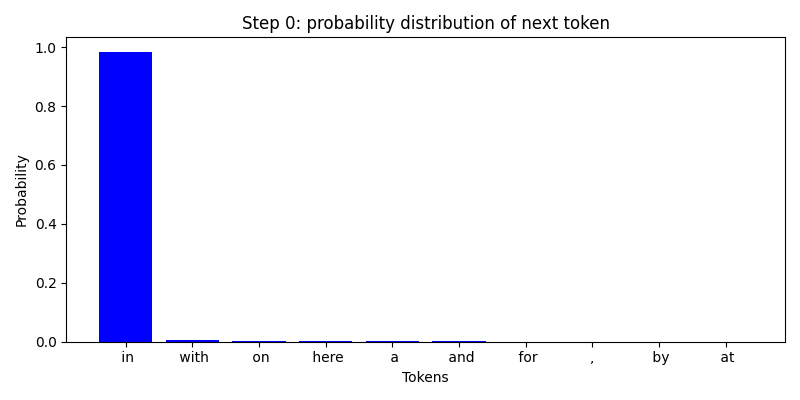
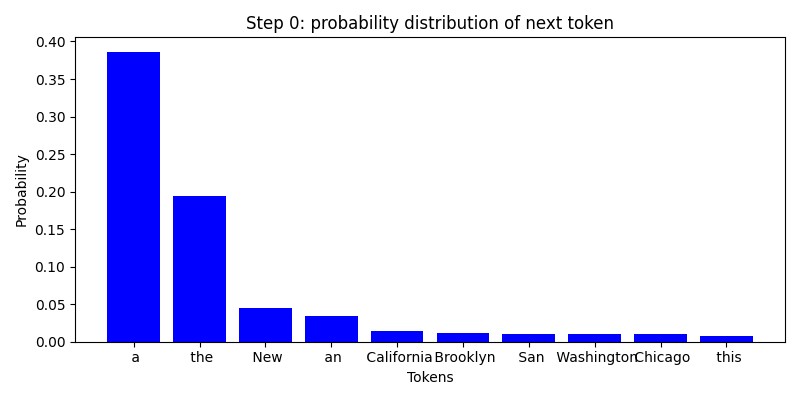
Assignment_2: Part 2

diff --git a/app/nanoGPT/eval.py b/app/nanoGPT/eval.py
@@ -1,0 +1,79 @@
+import os
+import json
+import math
+import torch
+import tiktoken
+from model import GPTConfig, GPT
+
+@torch.no_grad()
+def eval(model, enc, eval_file, device="cuda"):
+
+    with open(eval_file, "r", encoding="utf-8") as f:
+        data = json.load(f)
+
+    total_logprob = 0.0
+    total_tokens = 0
+
+    for ex in data:
+        prompt, response = ex["prompt"], ex["response"]
+
+        prompt_ids = enc.encode(prompt)
+        response_ids = enc.encode(response)
+
+        x = torch.tensor([prompt_ids], dtype=torch.long, device=device)
+        logits, _ = model(x)
+        logits = logits[:, -1, :]
+
+        logprob = 0.0
+        for token in response_ids:
+            probs = torch.softmax(logits, dim=-1)
+            prob = probs[0, token].item()
+            logprob += torch.log(torch.tensor(prob + 1e-10))
+            total_tokens += 1
+
+            x = torch.tensor([[token]], dtype=torch.long, device=device)
+            logits, _ = model(x)
+            logits = logits[:, -1, :]
+
+        total_logprob += logprob.item()
+        print(f"Prompt: {prompt}\nResponse: {response}\n"
+              f"LogProb: {logprob.item():.4f}\n")
+
+    # perplexity
+    avg_logprob = total_logprob / total_tokens
+    ppl = math.exp(-avg_logprob)
+
+    print(f"Summed log probability over dataset: {total_logprob:.4f}")
+    print(f"Perplexity over dataset: {ppl:.4f}")
+
+
+if __name__ == "__main__":
+    import argparse
+    parser = argparse.ArgumentParser(description="Evaluate GPT on prompt-response pairs")
+    parser.add_argument("out_dir", type=str, help="Directory with model checkpoint")
+    parser.add_argument("--eval_file", type=str, default="eval_data.json")
+    parser.add_argument("--init_from", type=str, default="resume")
+    parser.add_argument("--start", type=str, default="\n")
+    parser.add_argument("--num_samples", type=str, default="10")
+    parser.add_argument("--max_new_tokens", type=str, default="500")
+    parser.add_argument("--temperature", type=str, default="0.8")
+    parser.add_argument("--top_k", type=str, default="200")
+    parser.add_argument("--seed", type=str, default="1337")
+    parser.add_argument("--device", type=str, default="cuda")
+    parser.add_argument("--compile", type=str, default="False")
+    parser.add_argument("--show_probs", type=str, default="False")
+
+    args = parser.parse_args()
+
+    ckpt_path = os.path.join(args.out_dir, "ckpt.pt")
+    checkpoint = torch.load(ckpt_path, map_location=args.device)
+
+    model_args = checkpoint["model_args"]
+    model = GPT(GPTConfig(**model_args))
+    state_dict = checkpoint["model"]
+    model.load_state_dict(state_dict)
+    model.eval().to(args.device)
+
+    enc = tiktoken.get_encoding("gpt2")
+
+    eval(model, enc, args.eval_file, args.device)

diff --git a/app/nanoGPT/sample.py b/app/nanoGPT/sample.py
@@ -42,6 +42,7 @@ device = 'cuda' # examples: 'cpu', 'cuda', 'cuda:0', 'cuda:1', etc.
 dtype = 'bfloat16' if torch.cuda.is_available() and torch.cuda.is_bf16_supported() else 'float16' # 'float32' or 'bfloat16' or 'float16'
 compile = False # use PyTorch 2.0 to compile the model to be faster
 show_probs = False
+fixed_response = ''
 exec(open('configurator.py').read()) # overrides from command line or config file
 # -----------------------------------------------------------------------------
 
@@ -107,7 +108,11 @@ with torch.no_grad():
     with ctx:
         for k in range(num_samples):
             # y = model.generate(x, max_new_tokens, temperature=temperature, top_k=top_k)
-            y, topk_probs_list, topk_indices_list, selected_ids, log_prob_total = model.generate(x, max_new_tokens, temperature=temperature, top_k=top_k, fixed_response=[42, 17, 256])
+            if fixed_response:
+                response_tokens = enc.encode(fixed_response)
+            else:
+                response_tokens = None
+            y, topk_probs_list, topk_indices_list, selected_ids, log_prob_total = model.generate(x, max_new_tokens, temperature=temperature, top_k=top_k, fixed_response=response_tokens)
             print(decode(y[0].tolist()))
             print('---------------')
             print('The probability of the generated sequence of tokens:', math.exp(log_prob_total))

diff --git a/app/nanoGPT/data/part2/prepare.py b/app/nanoGPT/data/part2/prepare.py
@@ -1,0 +1,33 @@
+import os
+import requests
+import tiktoken
+import numpy as np
+
+# download the tiny shakespeare dataset
+input_file_path = os.path.join(os.path.dirname(__file__), 'input.txt')
+if not os.path.exists(input_file_path):
+    data_url = 'https://raw.githubusercontent.com/karpathy/char-rnn/master/data/tinyshakespeare/input.txt'
+    with open(input_file_path, 'w', encoding='utf-8') as f:
+        f.write(requests.get(data_url).text)
+
+with open(input_file_path, 'r', encoding='utf-8') as f:
+    data = f.read()
+n = len(data)
+train_data = data[:int(n*0.9)]
+val_data = data[int(n*0.9):]
+
+# encode with tiktoken gpt2 bpe
+enc = tiktoken.get_encoding("gpt2")
+train_ids = enc.encode_ordinary(train_data)
+val_ids = enc.encode_ordinary(val_data)
+print(f"train has {len(train_ids):,} tokens")
+print(f"val has {len(val_ids):,} tokens")
+
+# export to bin files
+train_ids = np.array(train_ids, dtype=np.uint16)
+val_ids = np.array(val_ids, dtype=np.uint16)
+train_ids.tofile(os.path.join(os.path.dirname(__file__), 'train.bin'))
+val_ids.tofile(os.path.join(os.path.dirname(__file__), 'val.bin'))
+
+# train.bin has 301,966 tokens
+# val.bin has 36,059 tokens

diff --git a/app/nanoGPT/config/finetune_part2.py b/app/nanoGPT/config/finetune_part2.py
@@ -1,0 +1,25 @@
+import time
+
+out_dir = 'out_finetune'
+eval_interval = 5
+eval_iters = 40
+wandb_log = False # feel free to turn on
+wandb_project = 'shakespeare'
+wandb_run_name = 'ft-' + str(time.time())
+
+dataset = 'part2'
+init_from = 'gpt2' # this is the largest GPT-2 model
+
+# only save checkpoints if the validation loss improves
+always_save_checkpoint = True
+
+# the number of examples per iter:
+# 1 batch_size * 32 grad_accum * 1024 tokens = 32,768 tokens/iter
+# shakespeare has 301,966 tokens, so 1 epoch ~= 9.2 iters
+batch_size = 1
+gradient_accumulation_steps = 32
+max_iters = 20
+
+# finetune at constant LR
+learning_rate = 3e-5
+decay_lr = False
